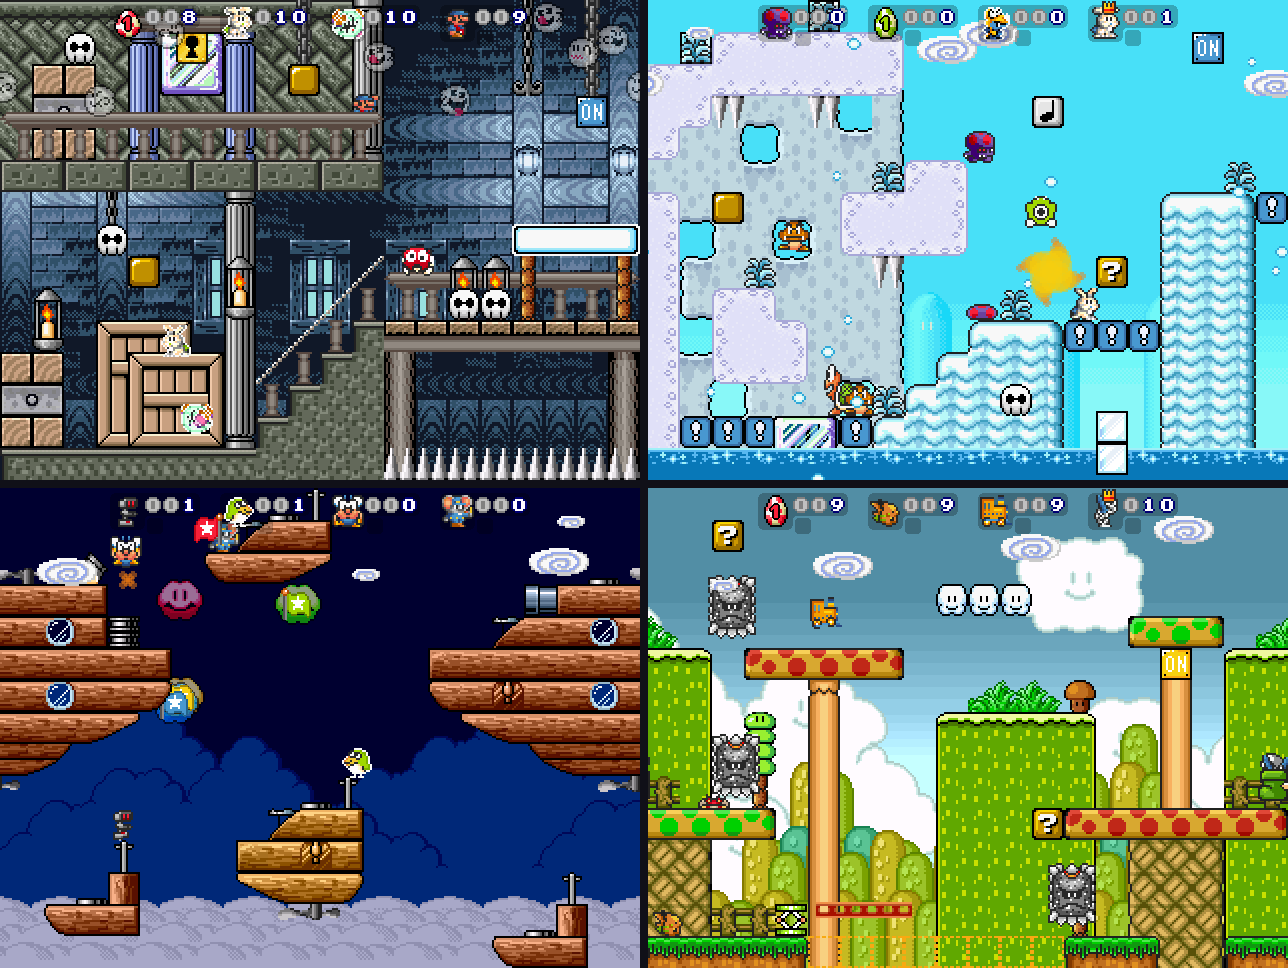
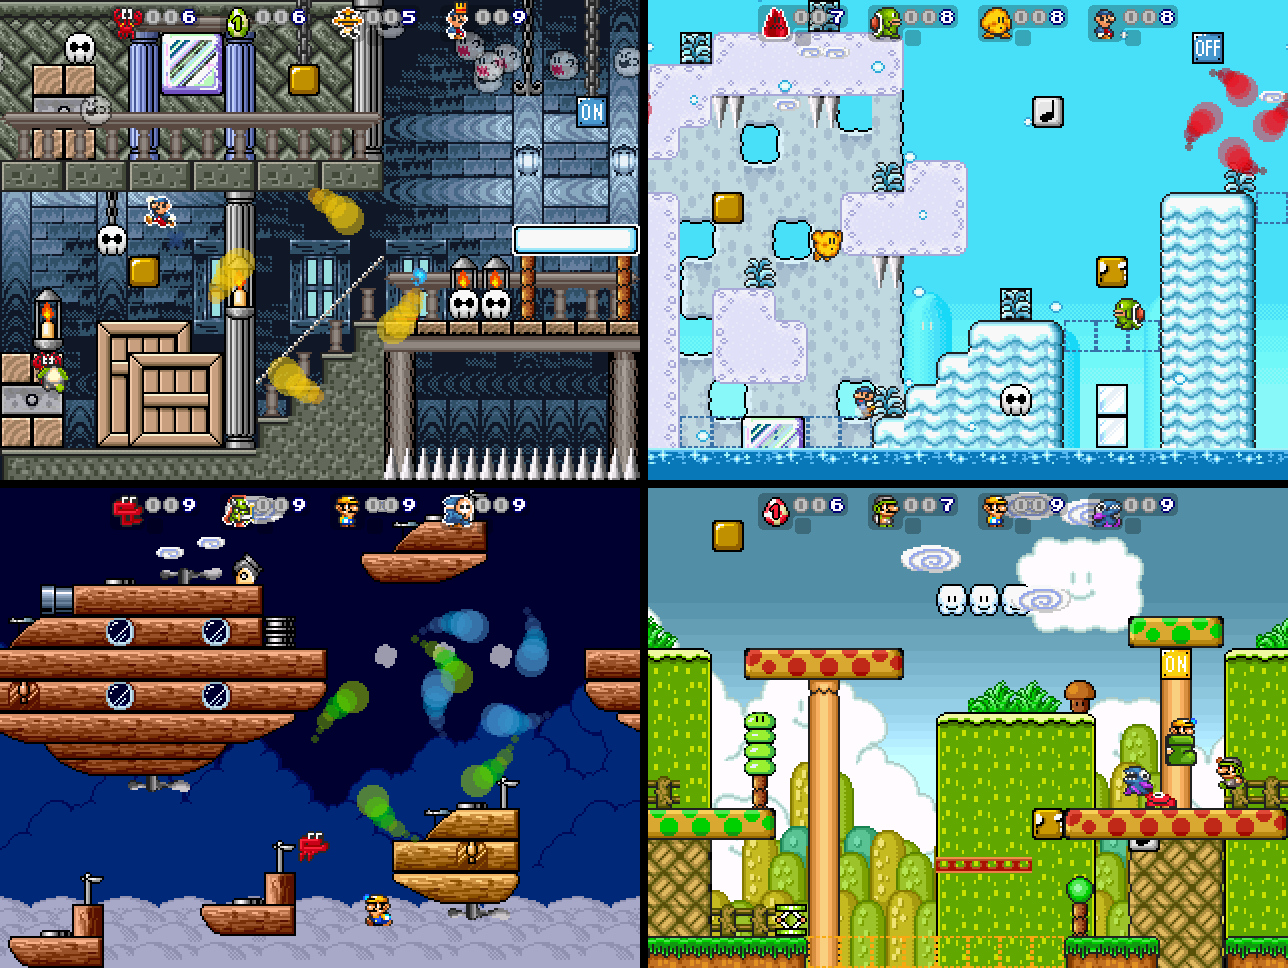
readme changes

diff --git a/src/smw/MenuAutoTest.cpp b/src/smw/MenuAutoTest.cpp
@@ -276,8 +276,8 @@ std::string g_pendingShot;
 
 // --at-role pad: a controller played live from a file (<shots dir>/pad.txt), a command a line, read
 // as lines are added to it: what a person with a controller would do, to try the menus and the
-// editors with nothing else (no pointer put anywhere, no keys). In the menus, player 1's controller:
-// the d-pad, A and B; in the editors, every button and both sticks (EditorInput.h's TestInput).
+// editors with nothing else (no pointer put anywhere, no keys). In the menus, players 1 and 2's:
+// the d-pad, A, B and X; in the editors, every button and both sticks (EditorInput.h's TestInput).
 //   a, down*5          a press (two frames, then two let go), five of them
 //   a:30               held for 30 frames
 //   +a, -a             held down from now / let go (held through what follows: A and the d-pad)
@@ -558,15 +558,20 @@ MenuCodeEnum MenuState::ShotsMenuUpdate()
             return exitSoon();
         if (!f.shot.empty())
             shot(f.shot.c_str());
-        if (f.pressedNow) {
-            COutputControl& keys = game_values.playerInput.outputControls[0];
-            keys.menu_up.fPressed = f.down.count("up") > 0;
-            keys.menu_down.fPressed = f.down.count("down") > 0;
-            keys.menu_left.fPressed = f.down.count("left") > 0;
-            keys.menu_right.fPressed = f.down.count("right") > 0;
-            keys.menu_select.fPressed = f.down.count("a") > 0;
-            keys.menu_cancel.fPressed = f.down.count("b") > 0;
-        }
+        //(players 1 and 2: the second's commands start with "2:"; X is the menus' random)
+        auto press = [](const padscript::Frame& frame, COutputControl& keys) {
+            if (!frame.pressedNow)
+                return;
+            keys.menu_up.fPressed = frame.down.count("up") > 0;
+            keys.menu_down.fPressed = frame.down.count("down") > 0;
+            keys.menu_left.fPressed = frame.down.count("left") > 0;
+            keys.menu_right.fPressed = frame.down.count("right") > 0;
+            keys.menu_select.fPressed = frame.down.count("a") > 0;
+            keys.menu_cancel.fPressed = frame.down.count("b") > 0;
+            keys.menu_random.fPressed = frame.down.count("x") > 0;
+        };
+        press(f, game_values.playerInput.outputControls[0]);
+        press(padscript::step(1), game_values.playerInput.outputControls[1]);
         return MENU_CODE_NONE;
     }
 

diff --git a/src/common/ui/MI_SelectField.cpp b/src/common/ui/MI_SelectField.cpp
@@ -67,15 +67,17 @@ void MI_SelectField<T>::Draw()
         return;
 
     gfxSprite* body = fLocked ? &rm->spr_selectfielddisabled : m_spr;
+    //(focused, a gray field lights up green as the others do, as the buttons: MI_Button)
+    const short row = fSelected ? (fLocked ? m_adjustmentY + 32 : 32) : m_adjustmentY;
 
     if (m_indent == 0) {
         short iHalfWidth = m_width / 2;
-        body->draw(m_pos.x, m_pos.y, {0, (fSelected ? 32 : 0) + m_adjustmentY, iHalfWidth, 32});
-        body->draw(m_pos.x + iHalfWidth, m_pos.y, {512 - iHalfWidth, (fSelected ? 32 : 0) + m_adjustmentY, m_width - iHalfWidth, 32});
+        body->draw(m_pos.x, m_pos.y, {0, row, iHalfWidth, 32});
+        body->draw(m_pos.x + iHalfWidth, m_pos.y, {512 - iHalfWidth, row, m_width - iHalfWidth, 32});
     } else {
-        body->draw(m_pos.x, m_pos.y, {0, (fSelected ? 32 : 0) + m_adjustmentY, m_indent - 16, 32});
+        body->draw(m_pos.x, m_pos.y, {0, row, m_indent - 16, 32});
         body->draw(m_pos.x + m_indent - 16, m_pos.y, {0, (fSelected ? 96 : 64), 32, 32});
-        body->draw(m_pos.x + m_indent + 16, m_pos.y, {528 - m_width + m_indent, (fSelected ? 32 : 0) + m_adjustmentY, m_width - m_indent - 16, 32});
+        body->draw(m_pos.x + m_indent + 16, m_pos.y, {528 - m_width + m_indent, row, m_width - m_indent - 16, 32});
     }
 
     if (m_indent> 0)

diff --git a/README.md b/README.md
@@ -33,7 +33,7 @@ Super Mario War is a fan-made multiplayer Super Mario Bros. style deathmatch gam
 
 ### Online multiplayer
 
-![The LAN games list with two games found and a button to host your own; the lobby's options, where "Open to" makes the same lobby a game on this computer only, on the LAN or on the internet; the lobby every game starts from (two players on one computer and two CPUs, open to the LAN: the address others join at shows at the top); and a match on Airshipz](docs/gfx/fork/online.png)
+![The games list with three games found on the network, one of them a map editor session being edited; the lobby's options (two players on this computer and two CPUs); the lobby every game starts from, open to the LAN; and a match on Airshipz](docs/gfx/fork/online.png)
 
 - **Rollback netcode** for up to four players: everybody connects directly to each other, no server. Inputs that arrive late are predicted and corrected, so the game stays responsive with lag.
 - **A full online lobby**: pick your character and team, see everyone's ping, add CPU players, and play tournaments, tours and worlds online. Missing maps and custom skins are sent to the players who don't have them.
@@ -48,7 +48,7 @@ See [docs/netplay.md](docs/netplay.md) for how to play and how it works.
 ![The map editor: three players editing a map together with the blocks palette open, the tools menu (undo, redo, copy an area, paste, fill), and pasting a copied area; and the world editor with its modes menu open](docs/gfx/fork/map_editor.png)
 
 - **Make and edit maps and worlds right in the game** (**Main menu, Editors**), with a mouse and keyboard or a controller: rectangles, fill, copy and paste, and undo.
-- **Edit together**: one player hosts a map or a world, the others join and edit it with them at the same time, online or on one computer.
+- **Edit together**: one player hosts a map or a world in a lobby, the others find it in Join a Game and edit it with them at the same time, online or on one computer; anyone can join in while it's going.
 
 ### Theater: replays of every match
 
@@ -61,7 +61,7 @@ See [docs/HistoryReplaysEditors.md](docs/HistoryReplaysEditors.md).
 
 ### Improvements
 
-![Four CPU players on Boo's Mansion, The Arctic, Airshipz and Mushroom Valley](docs/gfx/fork/gameplay.png)
+![Four CPU players with random skins on Boo's Mansion, The Arctic, Airshipz and Mushroom Valley](docs/gfx/fork/gameplay.png)
 
 - **Smarter CPU players** that find their way around a map: running jumps, warp pipes, ? blocks and power-ups, and better fighting.
 - **50 more classic community maps**.
